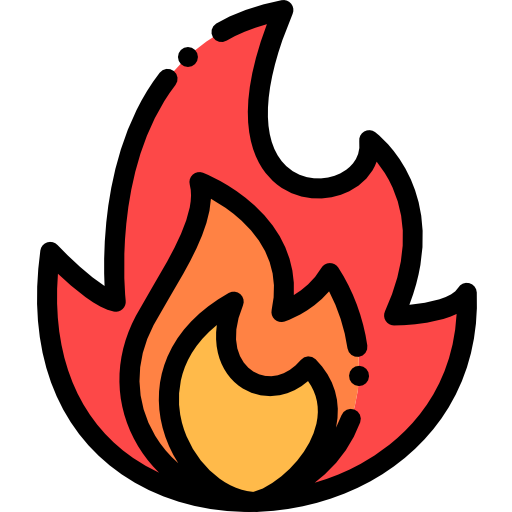
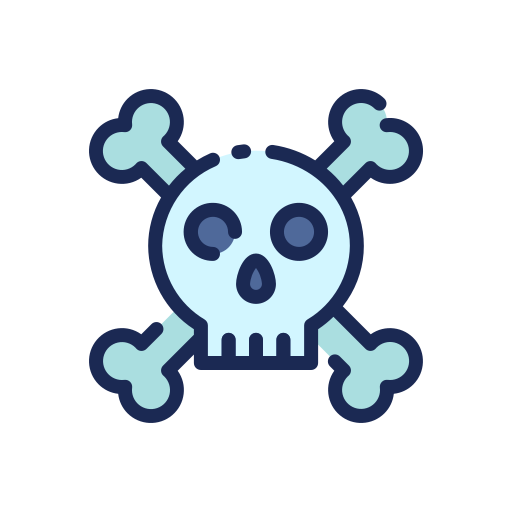
Rename fire to penalty & switch to button

diff --git a/src/wrappers/monitor_wrappers.py b/src/wrappers/monitor_wrappers.py
@@ -74,8 +74,8 @@ class StateMonitor(Monitor):
         full_monitor: bool,
         monitor_cost: float = 0.01,
         init_state_prob: float = 0.5,
-        switch_state: int = 6,
-        switch_action: int = 1,
+        button_state: int = 6,
+        button_action: int = 1,
         **kwargs
     ):
         gymnasium.Wrapper.__init__(self, env)
@@ -84,8 +84,8 @@ class StateMonitor(Monitor):
         self.observation_space = spaces.Dict({"mdp": env.observation_space, "monitor": spaces.Discrete(2)})
         self.monitor_cost = monitor_cost
         self.init_state_prob = init_state_prob
-        self.switch_state = switch_state
-        self.switch_action = switch_action
+        self.button_state = button_state
+        self.button_action = button_action
         self.monitor_state = None
         self.prev_mdp_state = None
 
@@ -98,15 +98,16 @@ class StateMonitor(Monitor):
         return {"mdp": mdp_obs, "monitor": self.monitor_state}, mdp_info
 
     def _monitor_step(self, action, mdp_reward, mdp_state=None):
-        if self.prev_mdp_state == self.switch_state and action["mdp"] == self.switch_action:
-            self.monitor_state = (self.monitor_state + 1) % 2  # flip the switch
+        if self.prev_mdp_state == self.button_state and action["mdp"] == self.button_action:
+            self.monitor_state = (self.monitor_state + 1) % 2  # flip the button
 
         if self.full_monitor:
             return self.monitor_state, mdp_reward, 0.
-        if self.monitor_state == 0:  # switch is off -> monitor is off
+            # return self.monitor_state, mdp_reward, - self.monitor_cost
+        if self.monitor_state == 0:  # button is off -> monitor is off
             monitor_cost = 0.0
             proxy_reward = np.nan
-        else:  # switch is on -> monitor is on
+        else:  # button is on -> monitor is on
             monitor_cost = - self.monitor_cost
             proxy_reward = mdp_reward
         self.prev_mdp_state = mdp_state
@@ -168,7 +169,8 @@ class BinaryMonitor(Monitor):
 
     def _monitor_step(self, action, mdp_reward, mdp_state=None):
         if self.full_monitor:
-            return 1, mdp_reward, 0.
+            # return 1, mdp_reward, 0.
+            return 1, mdp_reward, - self.monitor_cost if action['monitor'] == 1 else 0.0
         if action['monitor'] == 1:
             self.monitor_state = 1
             monitor_cost = - self.monitor_cost

diff --git a/src/gym-monitor/gym_monitor/treasure_hunt.py b/src/gym-monitor/gym_monitor/treasure_hunt.py
@@ -17,7 +17,7 @@ CRSD_COIN = 3
 QCKSND = 4
 QCKSND_AGNT = 5
 MAP = 6
-SWITCH = 7
+BUTTON = 7
 
 INT_TO_ANSI = {
     EMPTY: b"E",
@@ -27,7 +27,7 @@ INT_TO_ANSI = {
     QCKSND: b"Q",
     QCKSND_AGNT: b"X",
     MAP: b"M",
-    SWITCH: b"S"
+    BUTTON: b"B"
 }
 
 GRIDS = {
@@ -42,15 +42,15 @@ GRIDS = {
         [EMPTY, EMPTY, EMPTY],
         [EMPTY, EMPTY, EMPTY],
     ],
-    "3x3 fire": [
+    "3x3 penalty": [
         [EMPTY, CRSD_COIN, GLD_COIN],
         [EMPTY, CRSD_COIN, EMPTY],
         [EMPTY, EMPTY, EMPTY],
     ],
-    "3x3 switch": [
+    "3x3 button": [
         [EMPTY, CRSD_COIN, GLD_COIN],
         [EMPTY, CRSD_COIN, EMPTY],
-        [SWITCH, EMPTY, EMPTY],
+        [EMPTY, EMPTY, BUTTON],
     ],
 }
 
@@ -316,7 +316,7 @@ class TreasureHunt(gym.Env):
         surf_gld_coin = pygame.transform.scale(pygame.image.load("img/gold_img.png"), (screen_w / 3, screen_h / 3))
         surf_crsd_coin = pygame.transform.scale(pygame.image.load("img/fire_img.png"), (screen_w / 3, screen_h / 3))
         surf_agent = pygame.transform.scale(pygame.image.load("img/agent_img.png"), (screen_w / 3, screen_h / 3))
-        surf_switch = pygame.transform.scale(pygame.image.load("img/switch_img.png"), (screen_w / 6, screen_h / 6))
+        surf_button = pygame.transform.scale(pygame.image.load("img/button_img.png"), (screen_w / 6, screen_h / 6))
 
         for y in range(self._n_rows):
             for x in range(self._n_cols):
@@ -332,8 +332,8 @@ class TreasureHunt(gym.Env):
                     self.window_surface.blit(surf_map, pos)
                 if grid[y][x] == QCKSND:  # or grid[y][x] == QCKSND_AGNT:
                     self.window_surface.blit(surf_qcksnd, pos)
-                if grid[y][x] == SWITCH:
-                    self.window_surface.blit(surf_switch, pos)
+                if grid[y][x] == BUTTON:
+                    self.window_surface.blit(surf_button, pos)
                 if grid[y][x] == AGENT or grid[y][x] == QCKSND_AGNT:
                     self.window_surface.blit(surf_agent, pos + (0.5, 0.5))
                     # pos = (

diff --git a/src/gym-monitor/gym_monitor/gym.py b/src/gym-monitor/gym_monitor/gym.py
@@ -17,11 +17,11 @@ def register_envs():
     )
 
     register(
-        id="TreasureHunt-Fire-v0",
+        id="TreasureHunt-Penalty-v0",
         entry_point="gym_monitor.treasure_hunt:TreasureHunt",
         max_episode_steps=50,
         kwargs={
-            "grid": "3x3 fire",
+            "grid": "3x3 penalty",
             "enable_map": False,
             "enable_quicksand": False,
             "init_agent_pos": (0, 0),
@@ -30,11 +30,11 @@ def register_envs():
     )
 
     register(
-        id="TreasureHunt-Switch-v0",
+        id="TreasureHunt-Button-v0",
         entry_point="gym_monitor.treasure_hunt:TreasureHunt",
         max_episode_steps=50,
         kwargs={
-            "grid": "3x3 switch",
+            "grid": "3x3 button",
             "enable_map": False,
             "enable_quicksand": False,
             "init_agent_pos": (0, 0),

diff --git a/src/critic.py b/src/critic.py
@@ -1,4 +1,3 @@
-# import datetime
 import os
 import numpy as np
 from abc import ABC, abstractmethod
